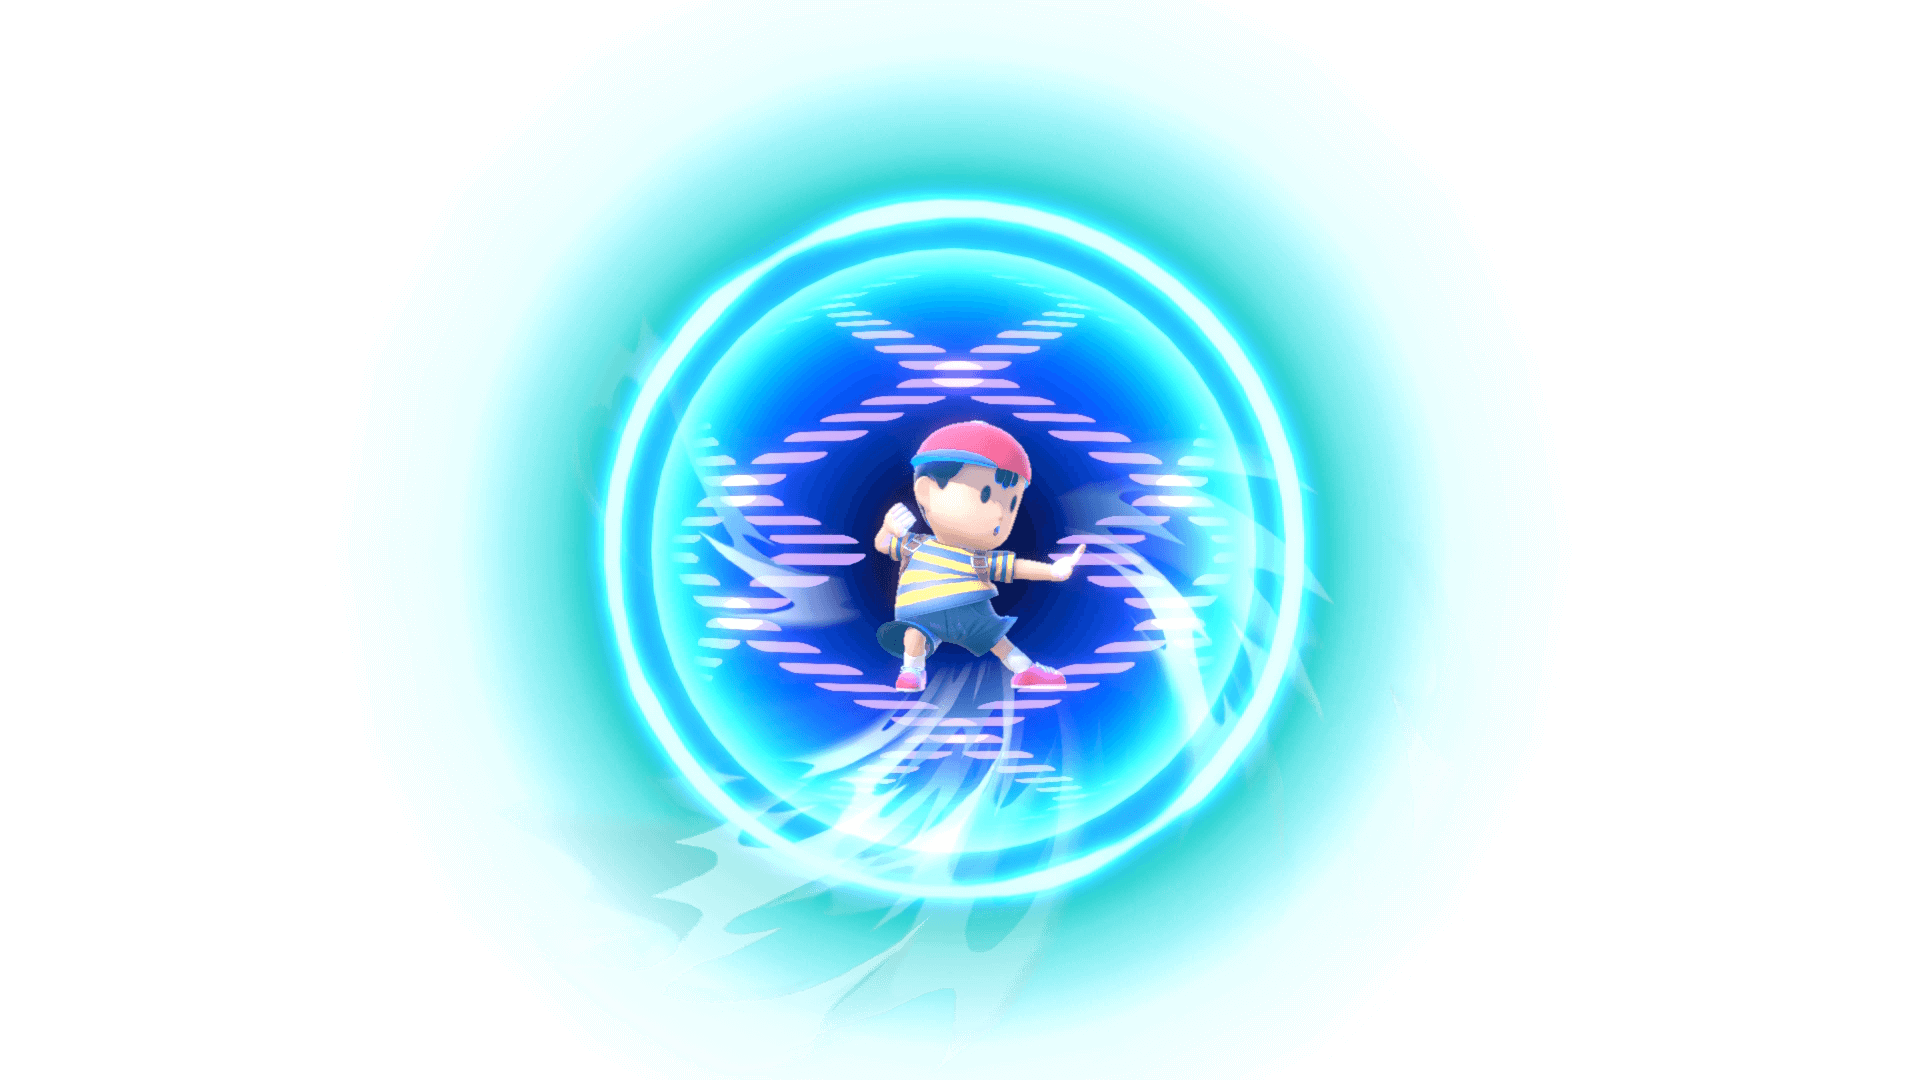
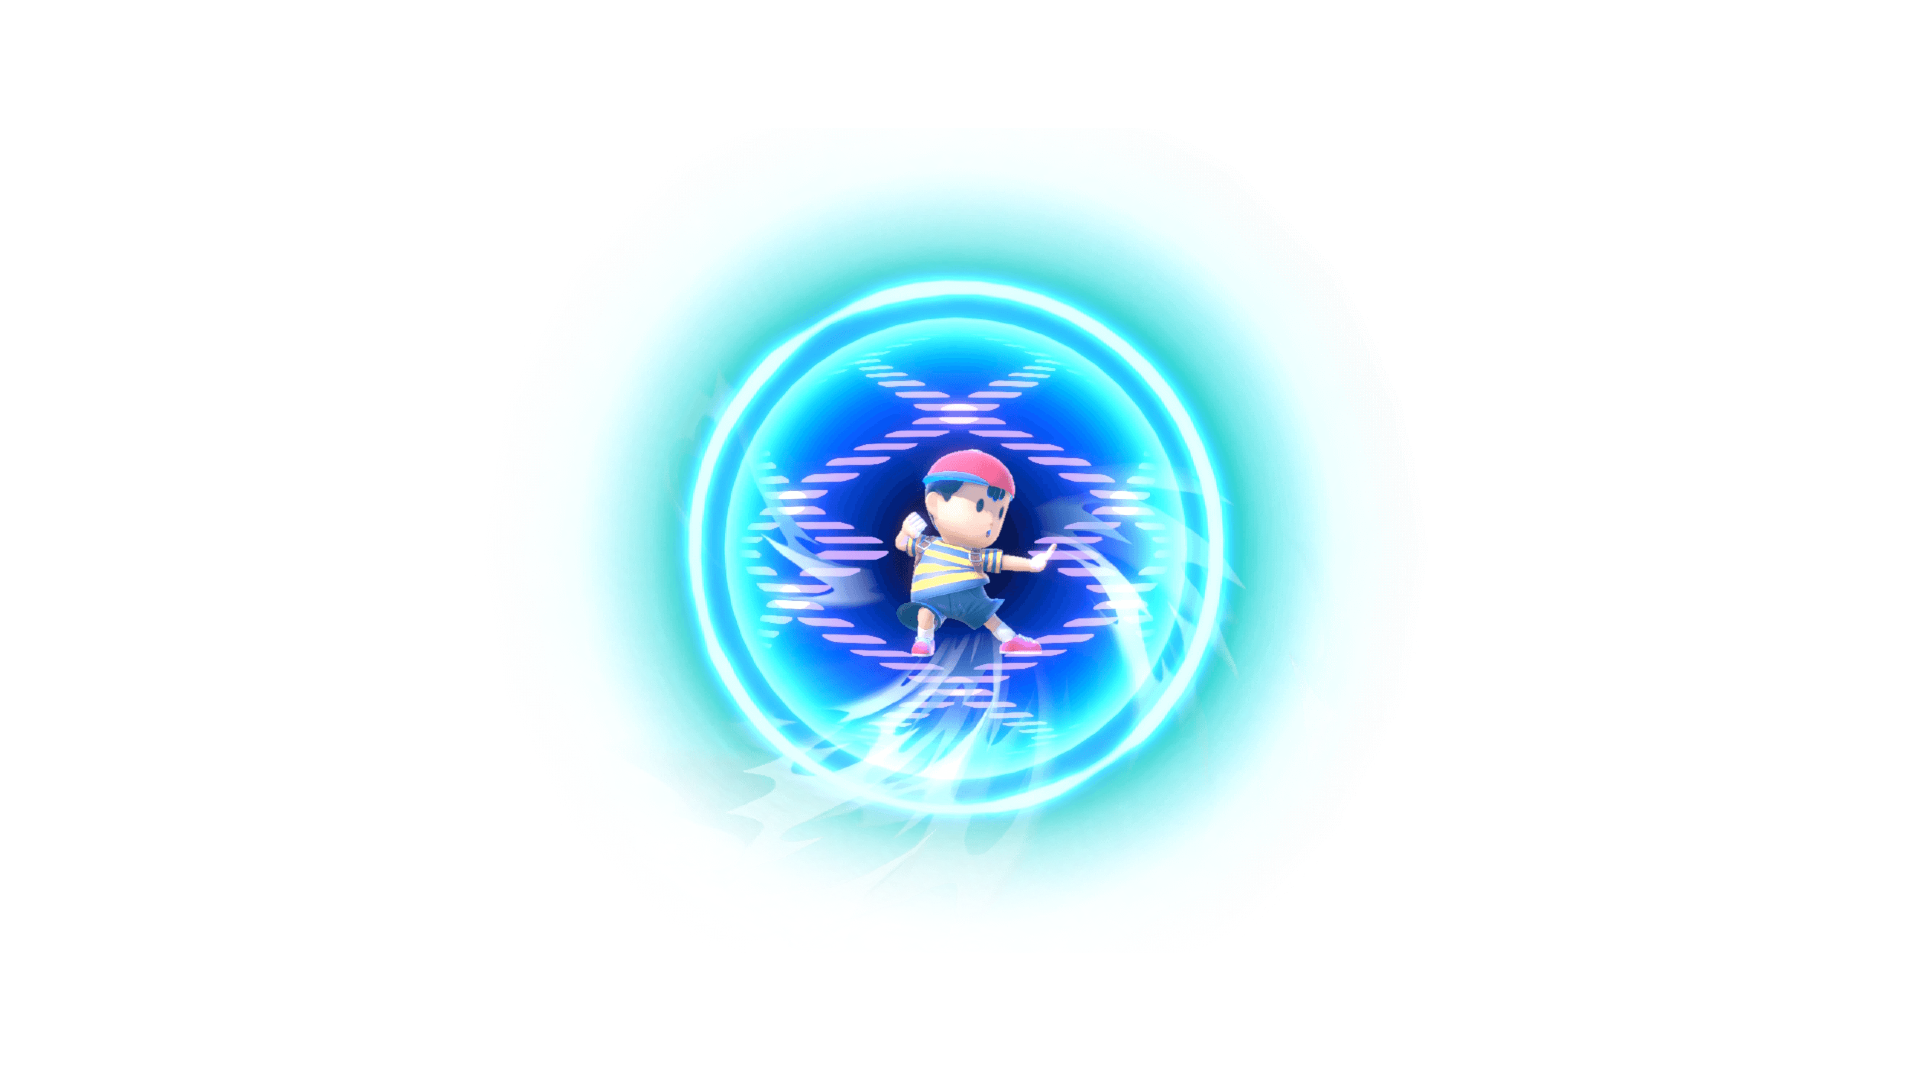
better magnet image

diff --git a/salt/templates/salt/members/nessboy12.html b/salt/templates/salt/members/nessboy12.html
@@ -7,7 +7,7 @@
 
 <div style="position: absolute;" data-framer-background-image-wrapper="true">
     <img id="margin-image" src="{% static 'salt/images/ness_fsmash.png' %}" style="top: 0px; left: 0px; width: 30%; height: auto; float: left;">
-    <img id="margin-image" src="{% static 'salt/images/Magnet.png' %}" style="top: 600px; left: 0px; width: 30%; height: auto; float: right;">
+    <img id="margin-image" src="{% static 'salt/images/Magnet(1).png' %}" style="top: 600px; left: 0px; width: 30%; height: auto; float: right;">
 </div>
 <h4>nessboy12</h4>
         <h5>andrew nguyen</h5>
